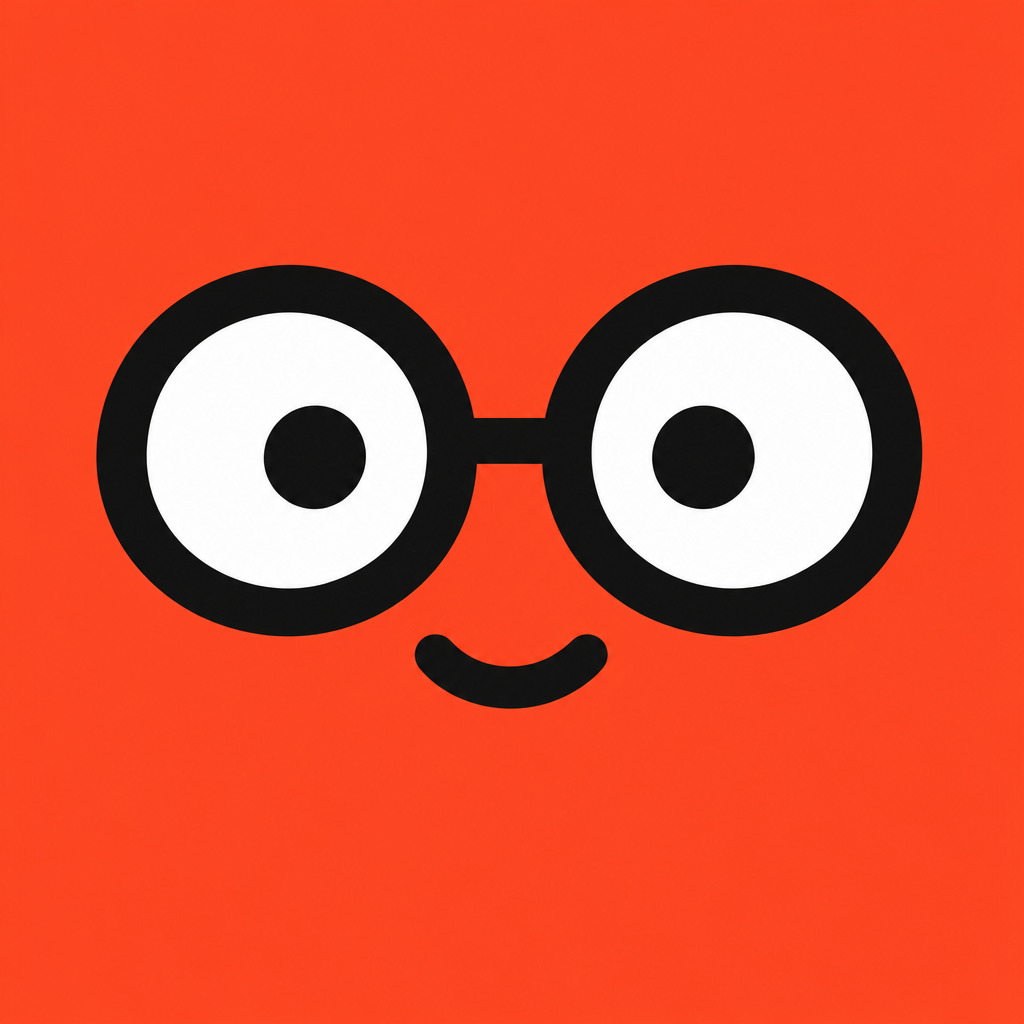
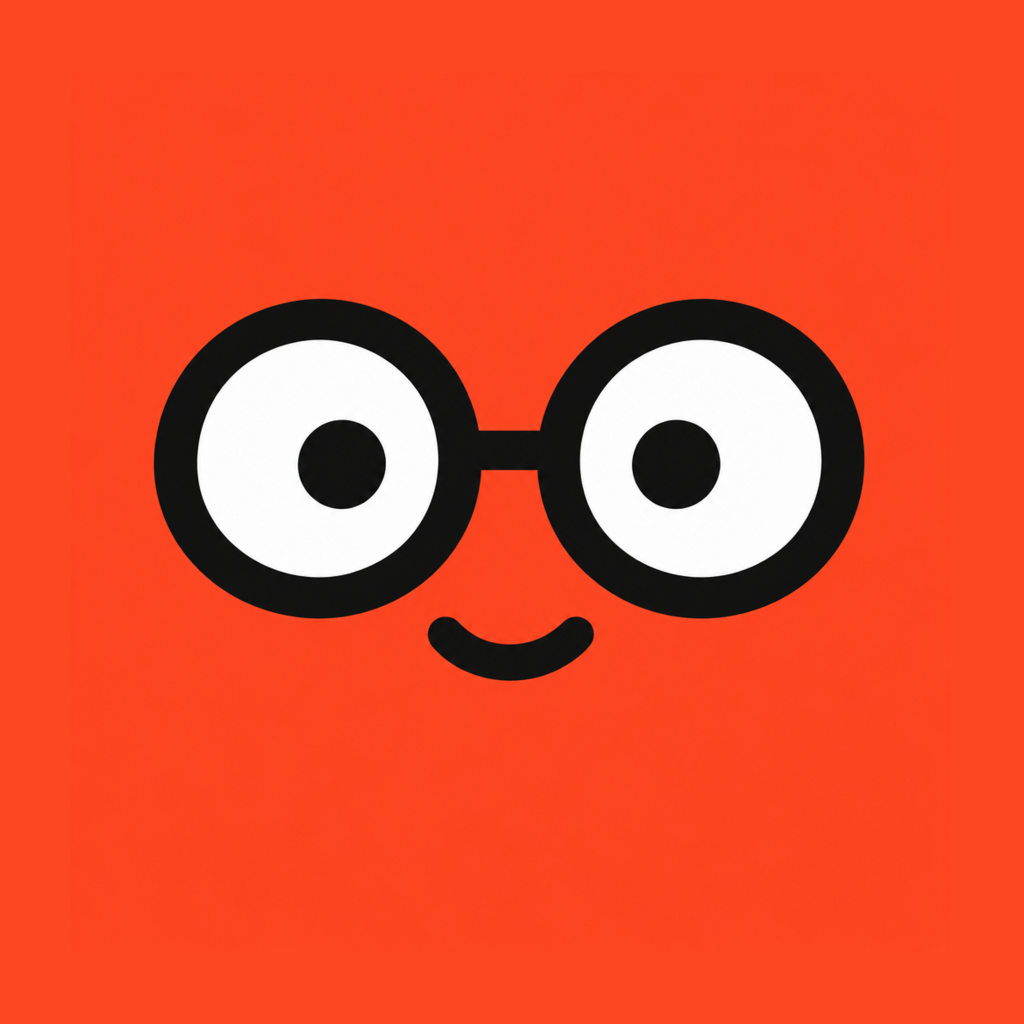
Use the safe-zone mascot face as the profile picture
Shrink the face to 86% and fill the edge with the same orange so the
glasses sit inside Instagram's circular safe zone and do not crowd the
story ring. Record the four-option comparison and the references behind
the choice in the mascot guide.

Claude-Session: https://claude.ai/code/session_01ERT3EipEoswRZZJYwfnxsr

diff --git a/assets/mascot/README.md b/assets/mascot/README.md
@@ -32,9 +32,29 @@
 | `h-calendar.png` | 동그라미 친 달력 | 다가올 날짜(저장각 주간 특집) |
 | `h-coffee.png` | 커피 들고 걸어감 | 출근길·아침 인사 |
 | `mascot-sheet.jpg` | 9가지 모음(크림 배경) | 새 자세를 만들 때 기준 그림 |
-| `profile.png` | 얼굴만, 주황 꽉 채움(1024×1024) | 인스타 프로필 사진 — 크림 바탕 시안보다 40px 아바타·스토리 고리 안에서 안경이 더 크게 읽혀 골랐다 |
+| `profile.png` | 얼굴만, 주황 꽉 채움(1024×1024). 힉스필드 원본(`incoming.json` 의 `profile`)을 86% 로 줄이고 가장자리를 같은 주황 `#FD4622` 로 채운 '안전 영역판' | 인스타 프로필 사진 — 아래 '프로필 사진을 고른 근거' |
 
 원본(1024px)과 작업 번호는 `assets/photos/incoming.json` 에 남아 있다. 새 자세는 `mascot-sheet.jpg` 와 `h-point.png` 를 힉스필드 기준 그림으로 넣어 만든다.
+
+## 프로필 사진을 고른 근거 (2026-11-01, 운영자 '이게 최선이야? 레퍼런스도 충분히 분석해 봤어?')
+
+시안 4개를 132px(프로필)·66px(스토리 고리)·40px(댓글·DM, 밝은/어두운 화면)으로 줄여 나란히 비교했다.
+
+| 시안 | 결과 |
+|---|---|
+| A 얼굴, 주황 꽉 | 40px 에서도 얼굴로 읽힘. 다만 안경 끝이 원 가장자리에 붙어 스토리 고리 안에서 답답하다 |
+| **A′ 얼굴 86% + 주황 여백 (채택)** | A 의 장점 그대로 + 가운데 안전 영역 안에 들어와 고리·원형 자르기에도 여유 |
+| B 'H.' 흰 글자·검정 바탕 | 깔끔하지만 다크 모드에서 배경에 묻힌다 |
+| B2 'H.' 검정 글자·크림 바탕 | 잘 읽히나 얼굴이 주는 '누가 말하나'가 없다. 아직 알려지지 않은 글자 마크는 일을 덜 한다 |
+
+근거로 본 자료(검색으로 확인, 경쟁 매체 프로필 사진 자체는 작업 환경에서 열리지 않아 직접 보지 못했다):
+- 인스타 프로필은 원형으로 잘리고 모바일 110px·스토리 줄·댓글에서 훨씬 작게 보인다 → 핵심은 가운데에, 글자는 넣지 않는다
+  ([socialsizes.io](https://socialsizes.io/instagram-profile-picture-size/), [Later](https://later.com/blog/instagram-profile-picture/), [SocialRails](https://socialrails.com/blog/best-instagram-profile-pictures))
+- 캐릭터가 곧 브랜드 목소리인 계정은 캐릭터 얼굴을 프로필로 쓴다(듀오링고 '듀오', [Brand24](https://brand24.com/blog/duolingo-social-media-strategy/)) — 뉴닉 '고슴이'·트렌드어워드 '테드'와 같은 길
+- 정면을 보는 얼굴은 다른 자극보다 먼저 눈길을 끈다([뷔르츠부르크대](https://www.uni-wuerzburg.de/en/news-and-events/news/detail/news/schau-mich-nicht-so-an/)) — 우리 얼굴은 정면 응시 + 미소
+- 사진 프로필이 대부분인 스토리 줄에서 단색 주황 원은 눈에 띄고, 밝은/어두운 화면 모두에서 읽힌다(비교 그림으로 확인)
+
+검증은 데이터로 한다: 바꾼 날(11/08 이후) 앞뒤 2주의 **프로필 방문 대비 팔로우 비율**을 성과표로 비교해 references.md 에 남긴다.
 
 ## 쓰는 원칙
 
